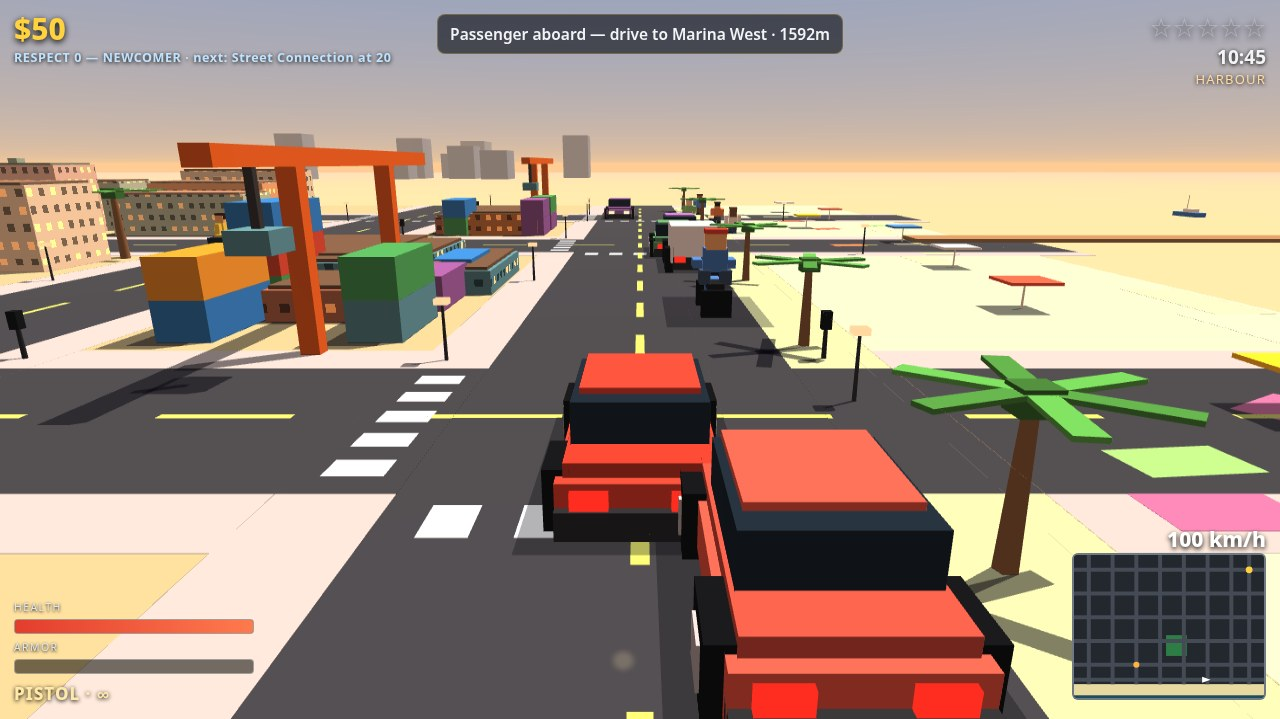
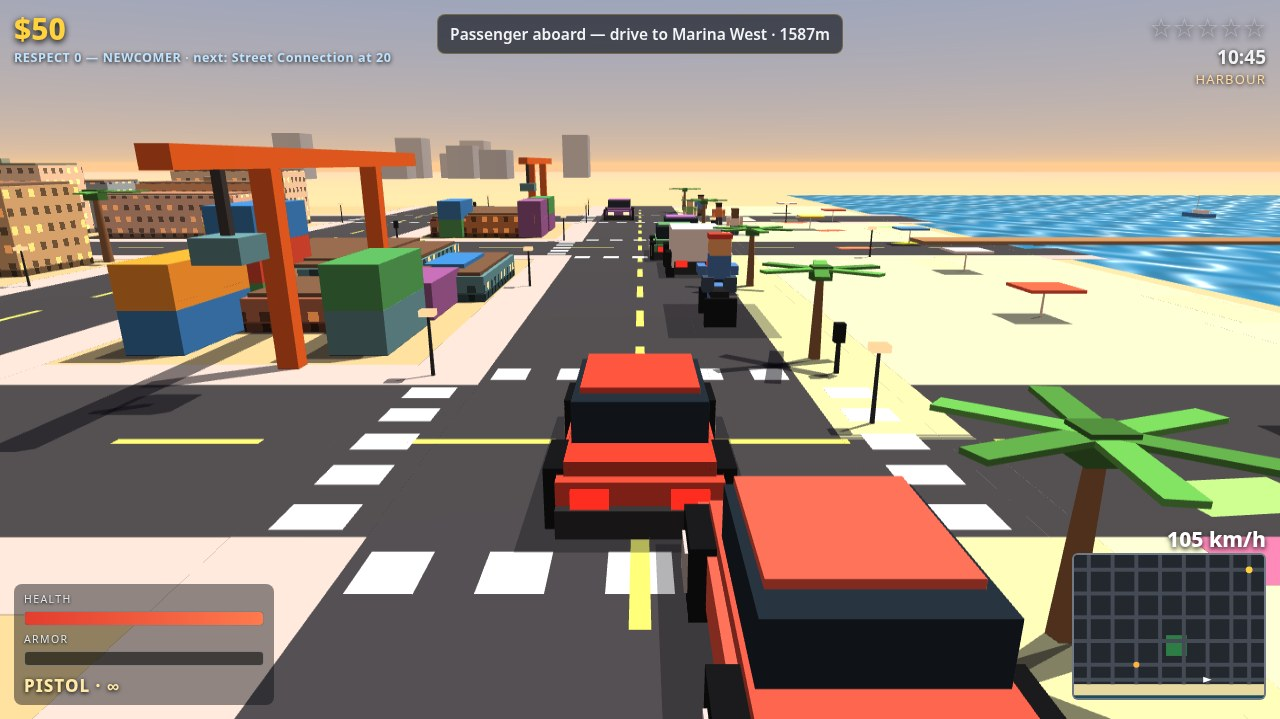
Regenerate screenshots: blue sea, fixed sign text, backed HUD text; longer gun barrel

diff --git a/game/src/models.js b/game/src/models.js
@@ -195,8 +195,8 @@ export function buildDiamondMesh() {
 export function buildGunMesh() {
   const b = new Builder();
   const dark = rgb('#14161a');
-  b.box(1, 0, 0, 11, 2.4, 1.7, dark);
+  b.box(1.5, 0, 0, 12, 2.4, 1.7, dark);
   b.box(-1.5, -2, 0, 2, 3.2, 1.5, dark);
-  b.box(7.5, 0.5, 0, 4, 1.1, 1.1, dark);
+  b.box(8.5, 0.5, 0, 6, 1.1, 1.1, dark);
   return b;
 }
